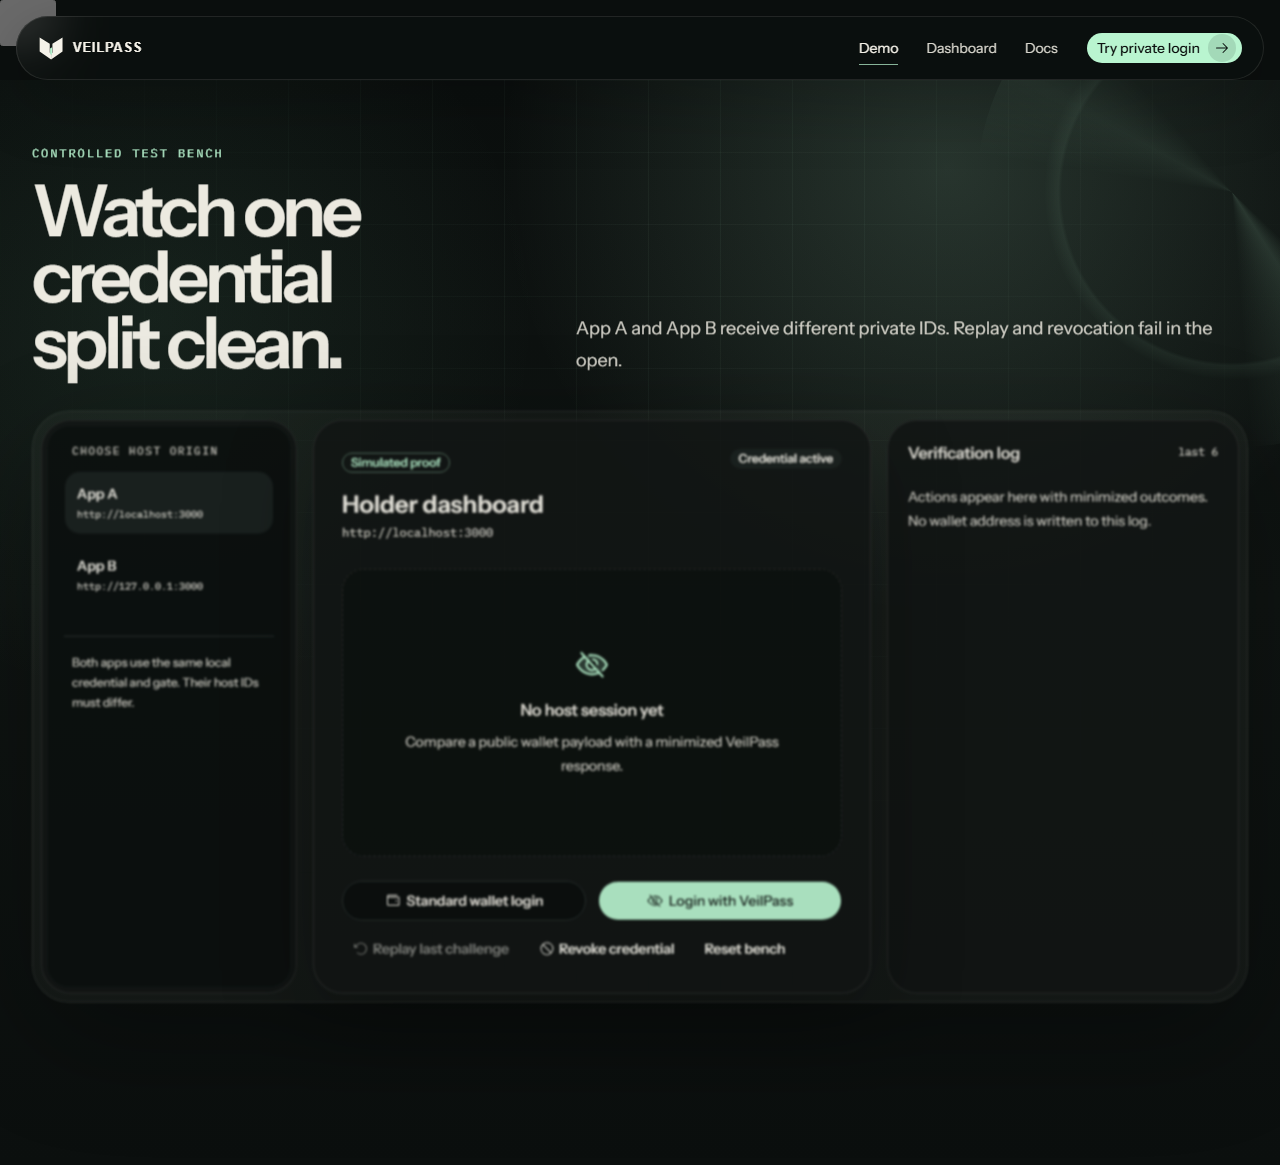
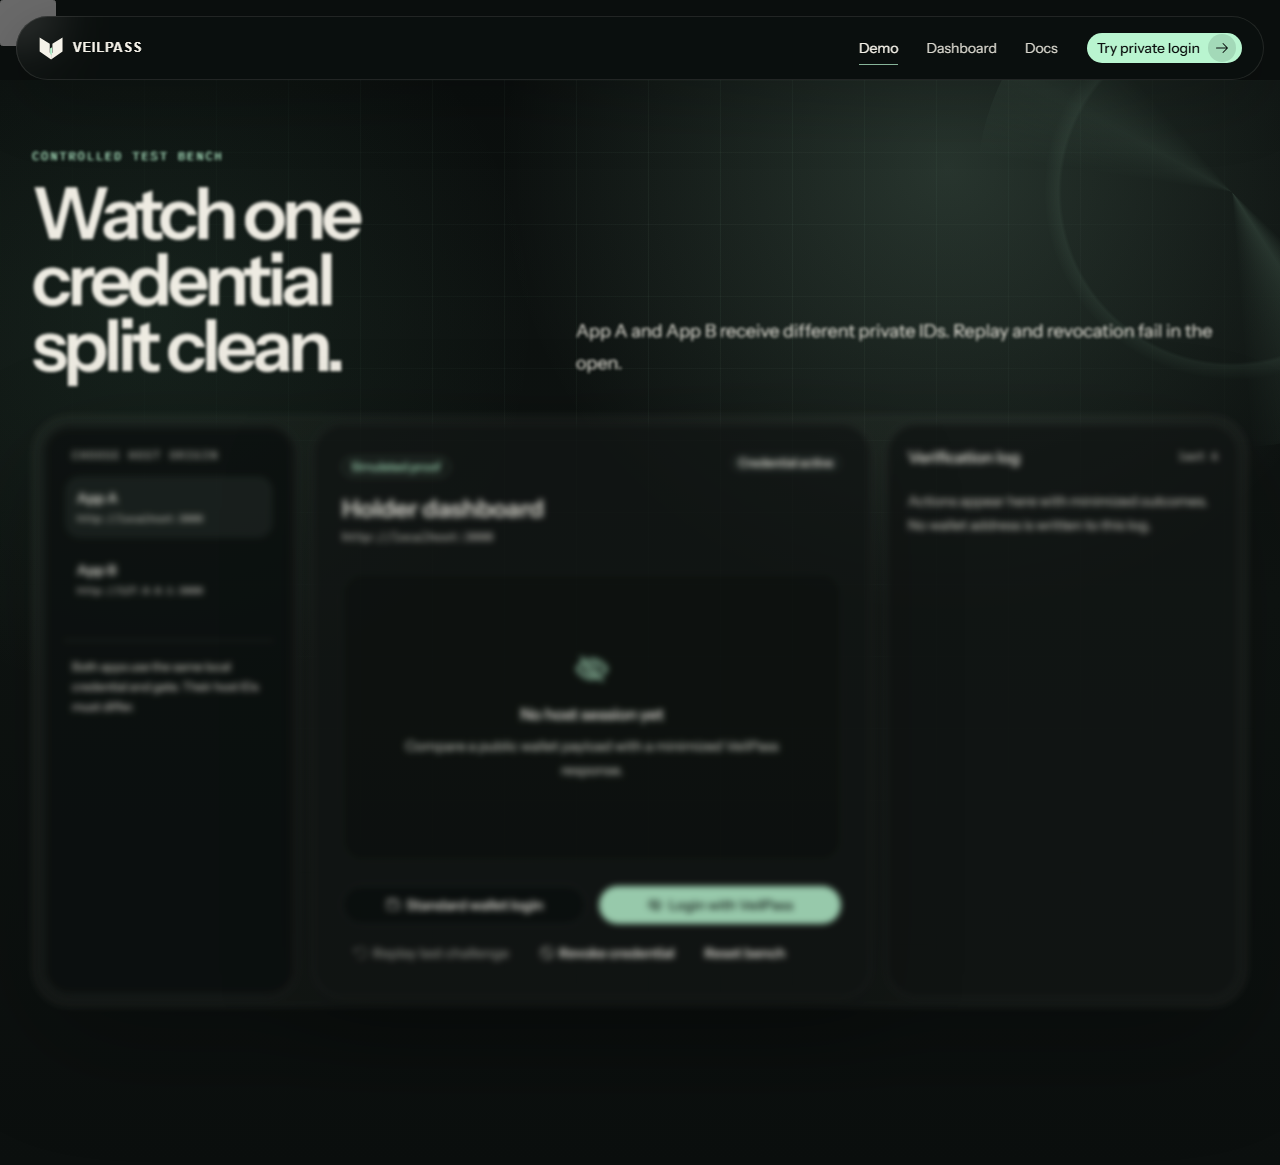
docs: update README, env example, evidence docs, and add @aztec/bb.js dependency
- README.md: update architecture overview to reflect Merkle tree issuance
  and Noir UltraHonk proof verification in production path
- frontend/.env.example: add CREDENTIAL_TREE_DATABASE_URL, BB_WASM_URL,
  VEILPASS_CREDENTIAL_ROOT env var stubs
- Update evidence docs: claim-audit.md, proof.md, test-report.md with
  current test output and acceptance evidence screenshots
- Add delivery-status.md and live-acceptance-checklist.md evidence files
- Update frontend/package.json and package-lock.json to include
  @aztec/bb.js for UltraHonk proof verification

diff --git a/README.md b/README.md
@@ -19,7 +19,7 @@ A host dApp can learn that a user passed a policy, such as holding the required 
 > [!IMPORTANT]
 > VeilPass is **not an anonymity system**. The MVP does not hide IP address, browser fingerprint, timing, device state, issuer-side enrollment knowledge, or future on-chain activity. It only enforces the explicit privacy boundary documented in this repo: host apps do not receive the wallet address during verification.
 
-[Live Demo](https://veilpass-stellar.vercel.app) · [Test Report](frontend/docs/evidence/test-report.md) · [Contract Evidence](frontend/docs/evidence/contract.md) · [Proof Boundary](frontend/docs/evidence/proof.md) · [Frontend Docs](frontend/app/docs/[[...slug]]/page.tsx)
+[Live Demo](https://veilpass-stellar.vercel.app) · [Test Report](frontend/docs/evidence/test-report.md) · [Contract Evidence](frontend/docs/evidence/contract.md) · [Proof Boundary](frontend/docs/evidence/proof.md) · [Delivery Status](frontend/docs/evidence/delivery-status.md) · [Frontend Docs](frontend/app/docs/[[...slug]]/page.tsx)
 
 ---
 
@@ -46,7 +46,7 @@ VeilPass handles:
 - Popup/message-channel verification for host dApps.
 - Replay-resistant challenge consumption.
 - A Soroban gate registry on Stellar Testnet.
-- A visible deterministic `Simulated proof` adapter while the Noir ZK circuit remains a clearly marked boundary.
+- Browser-local Noir/UltraHonk membership proofs verified by the server against a pinned verification key.
 
 The product goal is narrow and deliberate: prove the private-login loop, preserve the privacy boundary, and avoid overstating what the MVP hides.
 
@@ -64,7 +64,7 @@ For a reviewer or demo session, the shortest path is:
 6. Open `/dashboard/enroll` with Freighter set to Stellar Testnet.
 7. Add the testnet `VPT` trustline in Freighter.
 8. Issue the testnet asset locally to the Freighter wallet.
-9. Complete enrollment and verify that the host receives only the minimized private result.
+9. Complete enrollment and verify that the host receives only the minimized private result. This live step requires the durable database and gate-root publisher environment values described below.
 10. Check `frontend/docs/evidence/` for captured local test results, visuals, contract evidence, and proof boundary notes.
 
 ---
@@ -82,10 +82,12 @@ sequenceDiagram
   User->>VeilPass: Open enrollment
   VeilPass->>Wallet: Request wallet proof and Testnet account
   Wallet-->>VeilPass: Signed approval
-  VeilPass->>VeilPass: Check asset eligibility and issue credential
-  VeilPass->>Contract: Read gate root, epoch, and revocation state
+  VeilPass->>VeilPass: Create a local commitment and check asset eligibility
+  VeilPass->>Contract: Publish the new Merkle root at the active epoch
+  VeilPass->>VeilPass: Issue witness; retain subject secret in IndexedDB
   Host->>VeilPass: Create exact-origin challenge
-  VeilPass->>VeilPass: Consume challenge and derive app-scoped private ID
+  VeilPass->>VeilPass: Refresh Merkle witness and produce a local Noir proof
+  VeilPass->>Contract: Check root, epoch, and revocation state
   VeilPass-->>Host: Return private app ID and minimized policy verdict
 ```
 
@@ -104,7 +106,8 @@ flowchart LR
 
   Enrollment --> Eligibility["Horizon asset eligibility"]
   Enrollment --> Credential["Issuer credential"]
-  Credential --> LocalSecret["IndexedDB subject secret"]
+  Credential --> Tree["Durable Merkle tree + witness refresh"]
+  Tree --> LocalSecret["IndexedDB subject secret"]
 
   Host["Host dApp"] --> SDK["VeilPass SDK popup channel"]
   SDK --> Challenge["Challenge API"]
@@ -120,8 +123,8 @@ flowchart LR
 - **Wallet:** Freighter on Stellar Testnet.
 - **Stellar reads:** Horizon and Stellar RPC.
 - **Contract:** Soroban gate registry in `contracts/veilpass-gate`.
-- **Storage:** In-memory local adapters and PostgreSQL production adapters via Drizzle.
-- **Proof boundary:** Deterministic integration adapter clearly labeled `Simulated proof`; Noir source included for the future ZK path.
+- **Storage:** PostgreSQL is required for production challenge, enrollment, session, and Merkle-tree state; memory adapters are development-only.
+- **Proof boundary:** the hosted page generates the Noir/UltraHonk proof locally; the verifier uses the pinned verification key and returns no wallet data to the host.
 - **Deployment:** Vercel Hobby-compatible frontend deployment from `frontend/`.
 
 ---
@@ -159,7 +162,8 @@ flowchart LR
 | `POST` | `/api/challenges` | Creates a digest-only host challenge |
 | `POST` | `/api/verify` | Consumes a challenge and returns the minimized verifier result |
 | `POST` | `/api/session` | Creates or clears the opaque HTTP-only session |
-| `POST` | `/api/proof/simulate` | Runs the visibly labeled deterministic integration proof adapter |
+| `POST` | `/api/credentials/witness` | Refreshes a signed credential's Merkle path at the current contract root |
+| `POST` | `/api/proof/simulate` | Non-production compatibility fixture; the verifier never accepts it |
 | `POST` | `/api/enrollment/challenge` | Creates the enrollment challenge for Freighter signing |
 | `POST` | `/api/enrollment/issue` | Checks eligibility and issues a credential |
 
@@ -287,7 +291,7 @@ Deployment evidence lives in [frontend/docs/evidence/contract.md](frontend/docs/
 
 `frontend/packages/proof/circuits/membership` contains the Noir source.
 
-The TypeScript adapter used by the MVP is deterministic integration proof simulation, not a zero-knowledge proof. The UI and docs label it as `Simulated proof`.
+The hosted login uses the checked-in circuit artifact and creates an UltraHonk proof locally. `api/proof/simulate` remains an isolated non-production compatibility fixture; `/api/verify` never accepts it.
 
 Use WSL for the official Noir/Barretenberg toolchain on Windows:
 
@@ -297,7 +301,26 @@ nargo test
 nargo compile
 ```
 
-Replace `UnavailableNoirAdapter` only after committing the compiled artifact and verification key and rerunning the full proof matrix.
+Rebuild and validate the browser artifact and pinned verification key with:
+
+```powershell
+npm run proof:artifacts
+npm run proof:runtime
+```
+
+The runtime command executes the circuit through NoirJS, creates an UltraHonk proof, and checks it with the committed VK.
+
+### Live issuer prerequisites
+
+Production enrollment intentionally fails closed until all of the following are configured:
+
+- `DATABASE_URL` for durable challenge, nullifier, enrollment, and Merkle-tree records;
+- `VEILPASS_GATE_OWNER_SECRET`, held only by the service that is authorized to publish `update_root` transactions; and
+- a gate whose current root is the zero field (`00` repeated 32 bytes) or whose durable tree state has already been initialized to the on-chain root.
+
+`VEILPASS_GATE_OWNER_SECRET` is distinct from `VEILPASS_ISSUER_SECRET`. It is never sent to the browser. The deployed Testnet gate must be initialized or updated by its actual owner before the first enrollment; the dashboard exposes an explicit same-epoch **Update root** operation for that owner flow.
+
+The exact final acceptance sequence, including two public origins, Freighter approval, rejection cases, and the review recording, is in [the live acceptance checklist](frontend/docs/evidence/live-acceptance-checklist.md).
 
 ---
 
@@ -354,10 +377,11 @@ Expected current results:
 | --- | --- |
 | ESLint | Pass |
 | TypeScript | Pass |
-| Vitest | 52 tests passing |
+| Vitest | 58 tests passing |
+| Noir fixture | Pinned circuit test, witness, UltraHonk proof, and verification pass |
 | Soroban Rust tests | 3 tests passing |
 | Stellar Testnet smoke | Pass |
-| Playwright e2e | 22 tests passing |
+| Playwright e2e | 26 tests passing |
 | Axe accessibility checks | 8 tests passing |
 | Production build | Pass locally and on Vercel |
 | Runtime dependency audit | 0 vulnerabilities |
@@ -374,6 +398,7 @@ Tracked evidence lives under `frontend/docs/evidence/`.
 | Privacy claim audit | [claim-audit.md](frontend/docs/evidence/claim-audit.md) |
 | Contract deployment and smoke evidence | [contract.md](frontend/docs/evidence/contract.md) |
 | Proof boundary documentation | [proof.md](frontend/docs/evidence/proof.md) |
+| Proposal delivery status | [delivery-status.md](frontend/docs/evidence/delivery-status.md) |
 | Landing screenshot | [landing-desktop.png](frontend/docs/evidence/landing-desktop.png) |
 | Demo screenshot | [demo-desktop.png](frontend/docs/evidence/demo-desktop.png) |
 
@@ -407,10 +432,10 @@ veilpass/
 - Eligibility is based on the configured testnet asset and gate policy.
 - The enrollment issuer sees the wallet address.
 - The host verifier must not receive the wallet address.
-- Deterministic proof simulation is labeled as simulation and is not represented as ZK.
-- Noir circuit source is included, but native Windows proof compilation is not part of this MVP.
+- The hosted login produces a local Noir/UltraHonk membership proof; the verifier uses the pinned VK.
+- The compiler check runs through the pinned WSL toolchain on Windows and emits the reviewed browser artifact.
 - IP address, timing, browser/device fingerprinting, and later on-chain activity remain outside the privacy boundary.
-- Production replay hardening requires PostgreSQL via `DATABASE_URL`.
+- Production challenge, enrollment, session, and Merkle-tree persistence require PostgreSQL via `DATABASE_URL`.
 
 ---
 

diff --git a/frontend/docs/evidence/delivery-status.md b/frontend/docs/evidence/delivery-status.md
@@ -1,0 +1,54 @@
+# Proposal delivery status
+
+Audit date: 2026-09-02
+
+This is an evidence-based implementation status for the submitted Instawards scope. It distinguishes code that is tested today from work that still needs an operational deployment.
+
+## Sections 1–3: project, intent, and objective
+
+| Scope item | Evidence | Status |
+| --- | --- | --- |
+| VeilPass project identity and Stellar Testnet scope | Root `README.md`, environment template, and public deployment configuration | Implemented |
+| Wallet-eligibility privacy boundary | [privacy docs](../../app/docs/[[...slug]]/page.tsx), `packages/shared/src/contracts.ts`, and privacy audit | Implemented as an interface boundary: the host response schema excludes wallet data |
+| Freighter enrollment objective | `components/enrollment/enrollment-flow.tsx` and enrollment API routes | Implemented, requires a user-controlled Testnet wallet, VPT trustline, funding, issuer key, and durable storage to run live |
+
+## Section 4: in-scope deliverables
+
+| Deliverable | Tested evidence | Current status |
+| --- | --- | --- |
+| 1. Private Gate Core — Soroban gate state, events, root, epoch, and revocation | `contracts/veilpass-gate`, 3 Rust tests, and current `npm run contract:smoke` output | Implemented and verified on Testnet |
+| 1. Private Gate Core — membership circuit | `packages/proof/circuits/membership`; `npm run proof:check` runs circuit test → witness → UltraHonk prove → verify | Implemented and verified |
+| 1. Private Gate Core — production credential Merkle lifecycle and individual revocation | `credential-tree.ts`, migration `0002_credential_merkle_tree.sql`, `root-publisher.ts`, witness refresh endpoint, and contract `is_revoked` checks | Implemented; live use needs a durable DB and a gate owner able to initialize/publish the root |
+| 2. SDK and hosted login — popup, exact-origin channel, challenge endpoint, verifier boundary, and cookie session example | `packages/sdk`, `packages/server`, API routes, 58 unit tests, and browser privacy test | Implemented for the tested integration boundary |
+| 2. SDK and hosted login — browser-local Noir proof | `packages/proof/src/noir.ts`, committed circuit/VK artifacts, `zk-verifier.ts`, and `npm run proof:runtime` | Implemented and verified with the pinned VK |
+| 2. Freighter asset enrollment | Freighter Testnet UI, enrollment challenge, signed issue route, Horizon asset rule | Implemented; live execution needs user wallet and service configuration |
+| 3. Two-dApp demo | `app-a.localhost` and `app-b.localhost` routes are tested as distinct browser origins; the public `/demo` remains a controlled reviewer bench | Local two-host routing implemented; public independently deployed origins still need deployment configuration |
+| 3. Docs, privacy model, threat model, test report, and gate dashboard | `/docs`, `README.md`, evidence directory, dashboard, and tests | Implemented; docs describe the ZK verifier and operational scope boundaries |
+| 3. Review video and redacted live network capture | No review recording or capture is tracked in this repository | Not yet delivered |
+
+## Section 5: execution plan evidence
+
+| Planned checkpoint | Evidence available now |
+| --- | --- |
+| Week 1 — gate schema, origin normalization, proof inputs, contract/circuit harness | Soroban source/tests, normalized-origin tests, and reproducible Noir fixture check |
+| Week 2 — enrollment, eligibility, challenge lifecycle, replay/expiry/revocation error handling | Freighter enrollment code, Horizon asset rule, in-memory/PostgreSQL challenge stores, verifier tests |
+| Week 3 — SDK, popup, server session, dashboard, App A/App B | Buildable packages, popup channel tests, cookie-session route, dashboard, and separate local host routes |
+| Week 4 — end-to-end public proof, durable database run, evidence capture, and review video | Source implementation and local proof verification are complete; durable live deployment and final recording require the operator-controlled services below |
+
+## Reproduce the verified results
+
+Run from `frontend/`:
+
+```powershell
+npm run lint
+npm run typecheck
+npm test
+npm run proof:check
+npm run contract:test
+npm run contract:smoke
+npm run test:e2e
+npm run build
+npm audit --omit=dev
+```
+
+Remaining operational work: configure a PostgreSQL service, provide the Testnet gate-owner signer to initialize/publish the root, deploy App A/App B to independent HTTPS origins, run a live Freighter enrollment, and record the reviewer walkthrough. These actions cannot be completed safely from this repository without the owner-controlled credentials and wallet approval.

diff --git a/frontend/docs/evidence/test-report.md b/frontend/docs/evidence/test-report.md
@@ -1,20 +1,22 @@
 # VeilPass MVP local verification report
 
-Date: 2026-08-02
-Verified implementation revision: frontend workspace after moving the Next.js app to `frontend/`
+Date: 2026-09-02
+Verified implementation revision: `4a9147c` (`fix(proof): pass fixture public inputs to verifier`), plus the working tree changes documented with this report.
 
 ## Automated results
 
 - ESLint: pass
 - TypeScript `--noEmit`: pass
-- Vitest: 14 files, 52 tests passing
+- Vitest: 17 files, 58 tests passing
+- Noir membership circuit: pinned Nargo `1.0.0-beta.22` and Barretenberg `5.0.0-nightly.20260522`; valid circuit test, witness generation, UltraHonk proof generation, and verification all pass
+- NoirJS runtime: `npm run proof:runtime` generated a 14,656-byte proof with 11 public inputs and verified it with the committed VK
 - Soroban Rust: 3 tests passing
[1 lines of base64/hex data omitted]
-- Playwright desktop Chromium: 11 tests passing
-- Playwright mobile Chromium emulation: 11 tests passing
[1 lines of base64/hex data omitted]
+- Playwright desktop Chromium and mobile Chromium emulation: 26 tests passing, including distinct local App A and App B hosts
 - Axe: no serious or critical violations on landing, demo, dashboard, or docs in desktop and mobile projects
 - Reduced motion: pass
-- Five-step reviewer flow: pass
+- Two-origin host routing: pass for `app-a.localhost:3000` and `app-b.localhost:3000`
+- Five-step controlled reviewer flow: pass
 - Known-wallet exclusion across rendered text, Web Storage, cookies, console, and API bodies: pass
 - Browser/install surfaces: `/icon.svg`, generated Apple icon, and `manifest.webmanifest` are VeilPass-owned; default Next template assets return 404
 - Production Next.js build: pass
@@ -40,7 +42,10 @@ The full development audit reports four moderate findings in Drizzle Kit's devel
 ## External setup not performed
 
 - Freighter wallet trustline and holder funding were not performed because they require the user's Testnet wallet public key and wallet approval. Run `npm run asset:issue -- <FREIGHTER_TESTNET_PUBLIC_KEY>` after adding the generated `VPT` asset in Freighter.
-- The Noir circuit was not compiled because the official Noir/Barretenberg toolchain requires WSL on Windows and is not installed here.
 - No PostgreSQL integration run was performed because no `DATABASE_URL` service was provided; schema and atomic adapter are included and production fails closed without it.
+- No live Freighter enrollment or host-to-host sign-in was performed. Those paths require a user-controlled testnet wallet, a VPT trustline, asset funding, a configured issuer key, a production database, and the gate-owner signer for root publication.
+- The currently deployed Testnet root is not a canonical BN254 field root for this membership circuit, and the configured issuer signer is not the Testnet gate owner. The gate owner must approve an initial zero-root `update_root` transaction (or supply the separately scoped `VEILPASS_GATE_OWNER_SECRET`) before live credential issuance.
 
-These are environment/credential setup items. The deterministic proof path remains visibly labeled `Simulated proof` and is not represented as zero knowledge.
+## Important scope boundary
+
+The active hosted-login integration creates a local Noir/UltraHonk proof, refreshes the durable Merkle witness, and `/api/verify` checks the committed VK. `/api/proof/simulate` remains a non-production compatibility fixture but is not accepted by `/api/verify`. The outstanding work is operational: owner-approved Testnet root initialization, durable database provisioning, independent public host deployments, live Freighter evidence, and the final review recording.

diff --git a/frontend/docs/evidence/live-acceptance-checklist.md b/frontend/docs/evidence/live-acceptance-checklist.md
@@ -1,0 +1,15 @@
+# Live acceptance checklist
+
+This checklist is the remaining operator-controlled portion of the delivery. It is deliberately separate from source implementation because it requires the Testnet gate owner's signing key, a real PostgreSQL service, and a user-approved Freighter wallet action.
+
+1. Provision PostgreSQL and apply `drizzle/0000_veilpass_mvp.sql`, `drizzle/0001_enrollment_challenge_gate.sql`, and `drizzle/0002_credential_merkle_tree.sql` in order.
+2. Configure `DATABASE_URL`, `VEILPASS_ISSUER_SECRET`, and the separately scoped `VEILPASS_GATE_OWNER_SECRET` only in the VeilPass login service. Do not put either secret in a `NEXT_PUBLIC_` variable.
+3. As the on-chain gate owner, call `update_root` for `premium-holder` at its current epoch with `00` repeated 32 bytes. This establishes the empty sparse-Merkle-tree root. The dashboard's **Update root** tab provides the Freighter path; the service root publisher can then publish each issued root.
+4. Deploy three independent HTTPS origins: the VeilPass login service, App A, and App B. Set each host's exact `VEILPASS_HOST_ORIGIN` / `VEILPASS_LOGIN_ORIGIN` values and explicit host allowlist; never use wildcard origins.
+5. In Freighter on Stellar Testnet, add the configured VPT trustline and fund the holder account. The holder must approve the enrollment message itself.
+6. Enroll once. Confirm the new contract root event, issued credential, and durable tree records. Enroll a second test account and confirm the first browser refreshes its Merkle witness before login.
+7. Log in to App A twice and App B once. Confirm App A returns the same private app ID, App B returns a different one, and neither host response contains a Stellar address.
+8. Replay the prior proof and confirm `CHALLENGE_SPENT`; wait until the challenge expires and confirm rejection; revoke the issued `revocationHash` on the contract and confirm `CREDENTIAL_REVOKED`.
+9. Record this exact flow over the public HTTPS origins for the final short review video. Redact wallet secrets and service environment values.
+
+The repository validates the code path locally. These steps are not automatable without exposing the gate-owner/service secrets or bypassing the Freighter user's explicit wallet approval.

diff --git a/frontend/docs/evidence/proof.md b/frontend/docs/evidence/proof.md
@@ -1,9 +1,10 @@
 # Proof evidence
 
-- Deterministic integration adapter: implemented and tested
-- Product label: `Simulated proof`
-- Noir circuit source: implemented
-- Native Windows compile: unavailable because the official Noir/Barretenberg toolchain requires WSL
-- Cryptographic proof artifact and verification key: not generated in this environment
+- Membership circuit: `packages/proof/circuits/membership/src/main.nr`
+- Pinned toolchain: Nargo `1.0.0-beta.22`, Barretenberg `5.0.0-nightly.20260522`
+- Browser artifact: `public/proof/veilpass_membership.json`
+- Pinned verification key: `public/proof/veilpass_membership.vk`
+- Integrity manifest: `public/proof/manifest.json`
+- Runtime check: `npm run proof:runtime` executes NoirJS, produces an UltraHonk proof with 11 public inputs, and verifies it with the committed VK.
 
-No product surface claims the simulated adapter is zero knowledge.
+The proof binds the credential commitment and Merkle witness, gate/epoch/root, origin, fresh challenge, expiry, domain-scoped private app ID, login nullifier, and issuer-controlled revocation hash. The hosted page generates the proof locally; the verifier checks the proof/VK pair and returns only the minimized host result. `/api/proof/simulate` is an isolated non-production compatibility fixture and is not accepted by `/api/verify`.

diff --git a/docs/two-host-demo.md b/docs/two-host-demo.md
@@ -23,4 +23,6 @@ The configured host list is an explicit comma-separated allowlist. For deployed 
 
 ## What this proves — and what it does not
 
-The two host sites are real separate browser origins and exercise the SDK's popup/source/origin checks. The current local login proof remains explicitly labelled **Simulated proof**. It is an integration fixture, not a ZK proof. Production rejects that adapter; switch to a verified Noir/Barretenberg artifact only after proving and verifier evidence has been recorded.
+The two host sites are real separate browser origins and exercise the SDK's popup/source/origin checks. The popup now creates a Noir/UltraHonk membership proof locally and the verifier checks it with the committed verification key. The old `/api/proof/simulate` route is retained only as a non-production compatibility fixture; `/api/verify` never accepts it.
+
+For a live enrollment, configure PostgreSQL plus `VEILPASS_GATE_OWNER_SECRET` on the login service, and initialize the gate's root to the zero field before issuing the first credential. This is an operator setup requirement, not a host-dApp capability.

diff --git a/frontend/docs/evidence/claim-audit.md b/frontend/docs/evidence/claim-audit.md
@@ -8,5 +8,5 @@ Audit results:
 - The one use of `anonymous` is a negative warning that a private app ID is not anonymous.
 - Enrollment explicitly says the issuer sees the Stellar address and checks the public Testnet balance.
 - Landing, demo, login, docs, and README state that IP address, browser fingerprint, timing, device state, or later on-chain activity remain outside the boundary.
-- Every simulated cryptographic surface is labeled `Simulated proof` and says it is forgeable and not a zero-knowledge proof.
+- The hosted login creates a local Noir/UltraHonk proof; `/api/verify` accepts only a proof that verifies against the committed VK. The isolated simulator route is not on the verifier path.
 - Verified host success is schema-limited to `privateAppId`, `gateId`, `epoch`, `origin`, and `expiresAt` plus `ok`.
